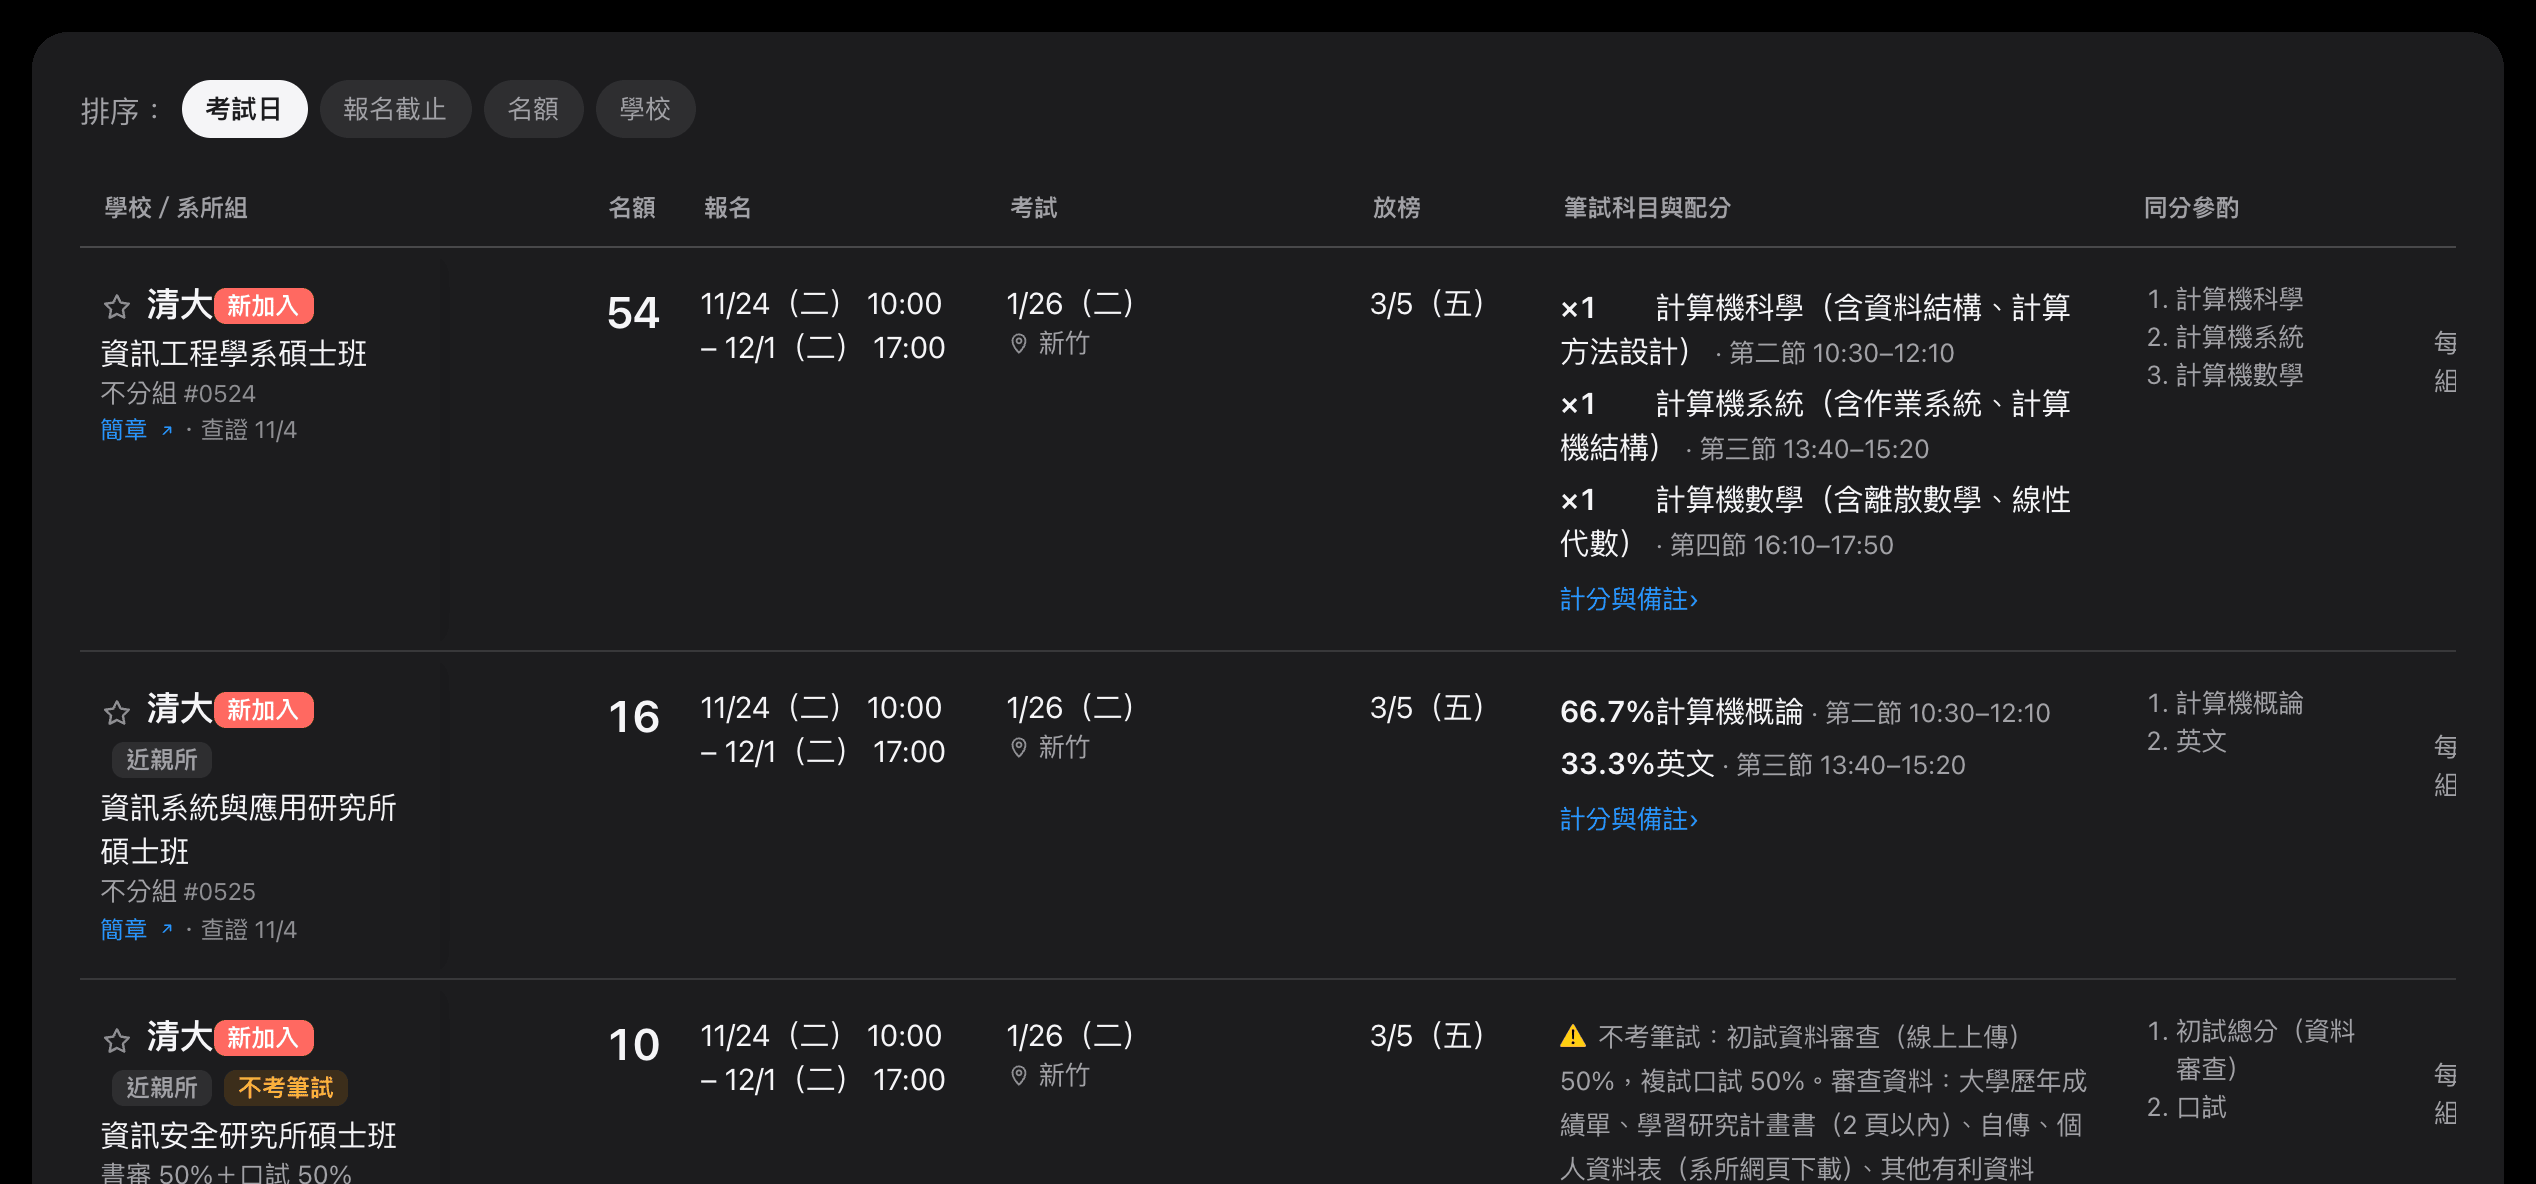
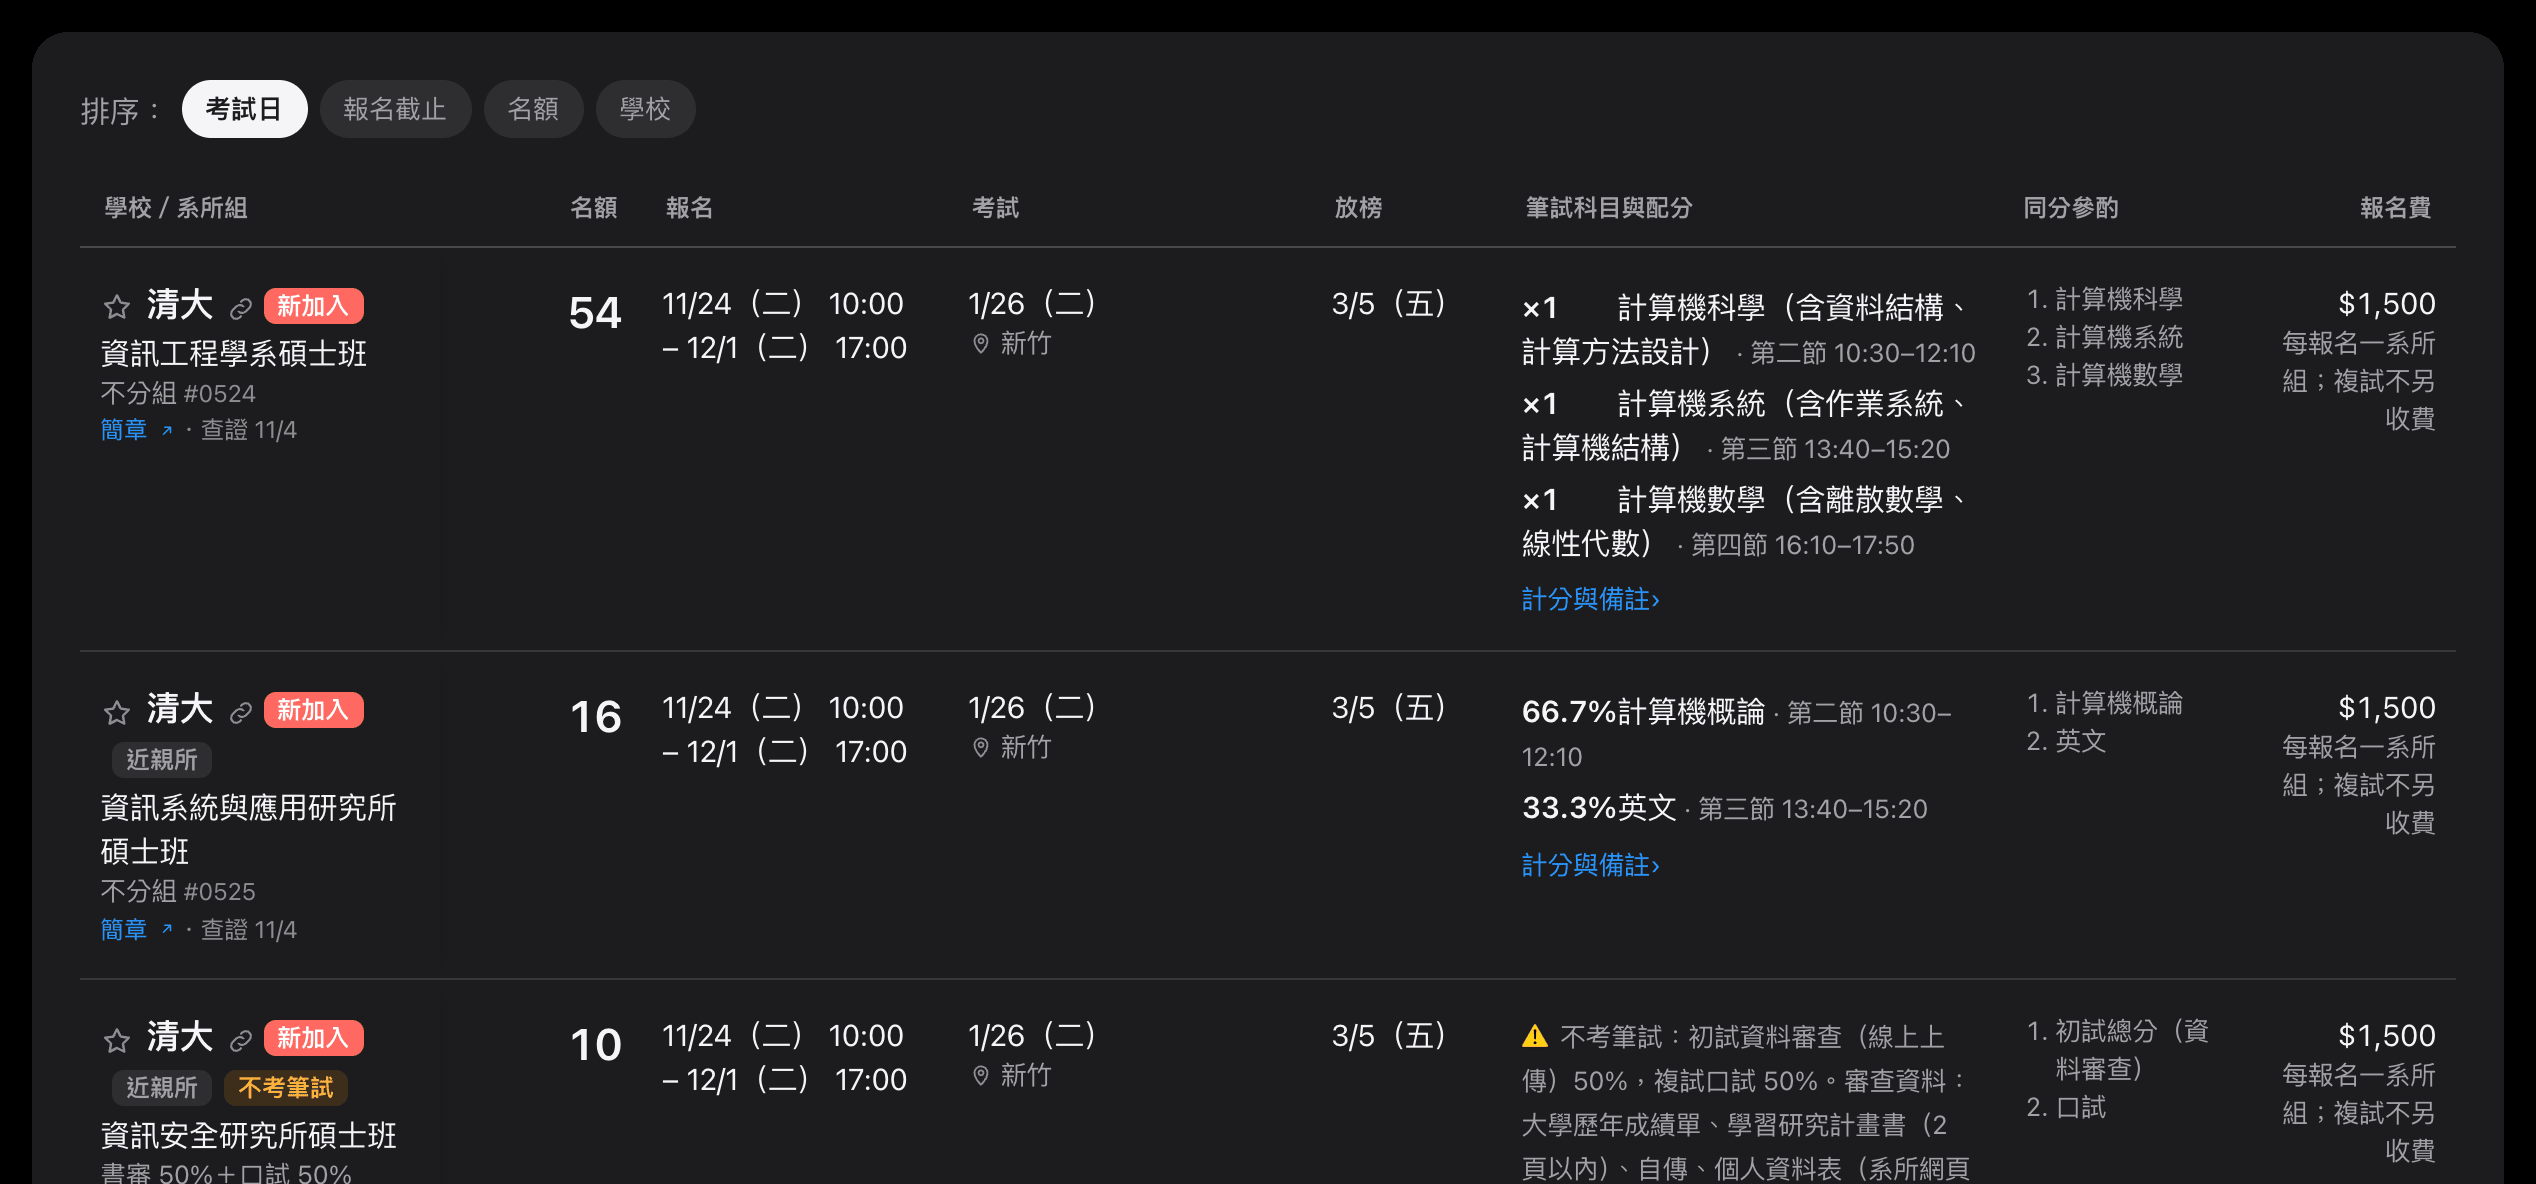
Compare table fits a 1280px screen without horizontal scroll (narrower quota, papers and tie-break columns); refresh README screenshots

diff --git a/src/styles.css b/src/styles.css
@@ -292,7 +292,7 @@ tbody tr:last-child td { border-bottom: 0; }
 .nowrap { white-space: nowrap; }
 .cmp { min-width: 1080px; }
 .cmp td:nth-child(4), .cmp td:nth-child(5) { min-width: 92px; }
-.cmp td:nth-child(2) { min-width: 120px; }
+.cmp td:nth-child(2) { min-width: 100px; }
 .cmp td:nth-child(2) .hint { text-align: left; }
 .cmp td.nowrap .hint { white-space: normal; }
 .cmp .who { min-width: 180px; }
@@ -303,9 +303,9 @@ tbody tr:last-child td { border-bottom: 0; }
 .who .grp { font-size: 13px; color: var(--text-2); }
 .code { font-size: 12px; color: var(--text-3); }
 tr.ref td { opacity: .72; }
-.cmp td:nth-child(6) { min-width: 290px; }
+.cmp td:nth-child(6) { min-width: 248px; }
 .cmp td { padding-left: 10px; padding-right: 10px; }
-.cmp td:nth-child(7) { min-width: 140px; }
+.cmp td:nth-child(7) { min-width: 124px; }
 .cmp td:last-child { min-width: 104px; }
 .cmp td .hint .ico { color: var(--text-3); }
 .more { margin-top: 6px; }
